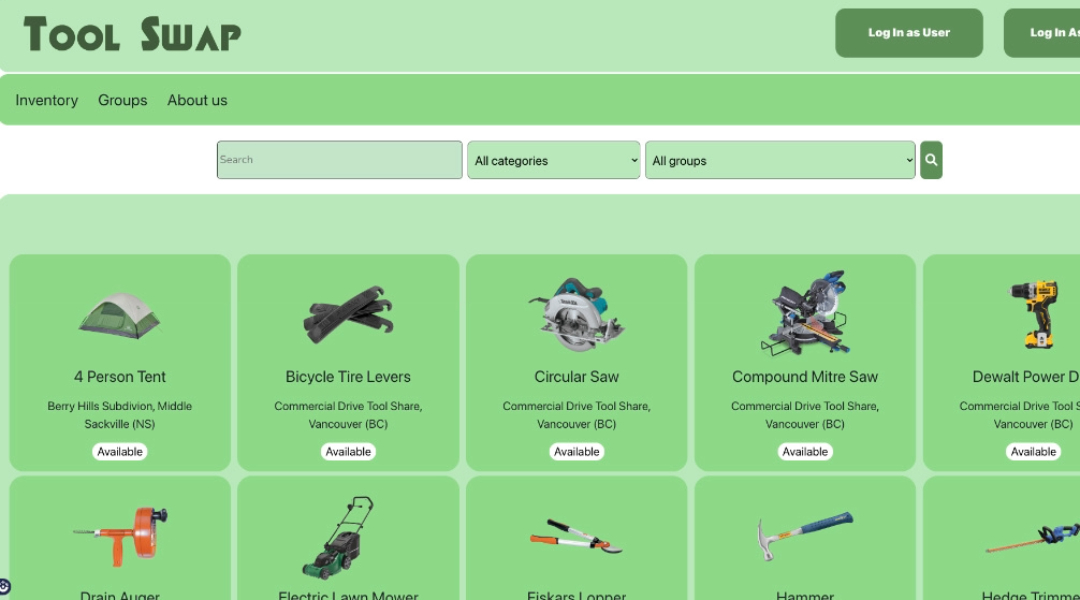
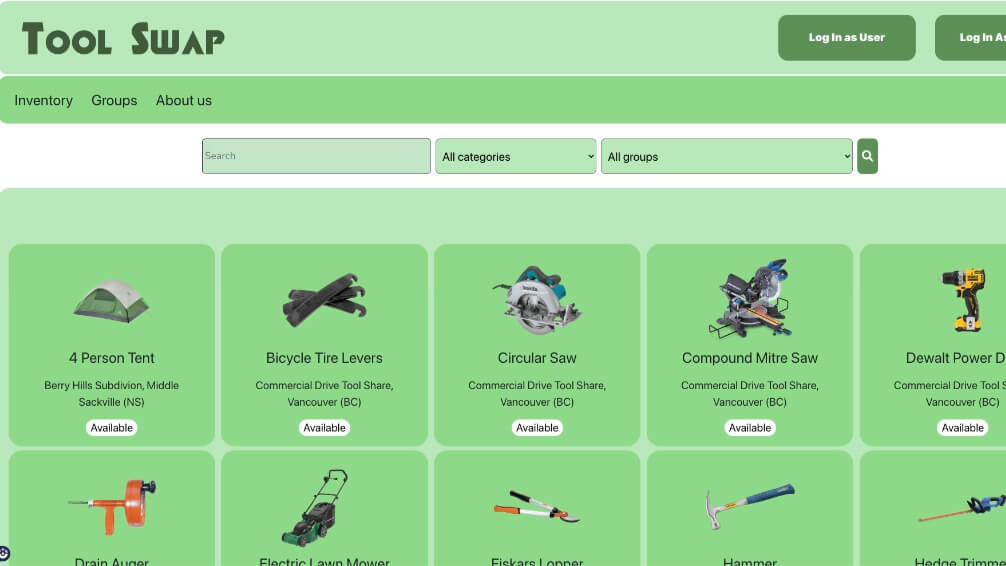
resize images

diff --git a/src/pages/HomePage/ProjectData.js b/src/pages/HomePage/ProjectData.js
@@ -18,13 +18,13 @@ export const homeObjFive = {
   description8: "Website for artist built using WP and GeneratePress theme.",
   description9: "Redisign of existing artist site built on SquareSpace.",
   buttonLabel: "",
-  img: require("../../images/ToolSwap.jpeg"),
+  img: require("../../images/ToolSwap.jpg"),
   img2: require("../../images/OAEA.png"),
   img3: require("../../images/StudioPothos.jpeg"),
   img4: require("../../images/Milon-Backt.jpg"),
   img5: require("../../images/Amy-Dhindsa.jpg"),
   img6: require("../../images/OAGEE-Homepage.jpg"),
-  img7: require("../../images/Communication-and-Beyond.jpg"),
+  img7: require("../../images/CommunicationAndBeyond.jpg"),
   img8: require("../../images/Idioteque-Website-Design.jpg"),
   img9: require("../../images/GillianMoranz.jpg"),
   start: "",
